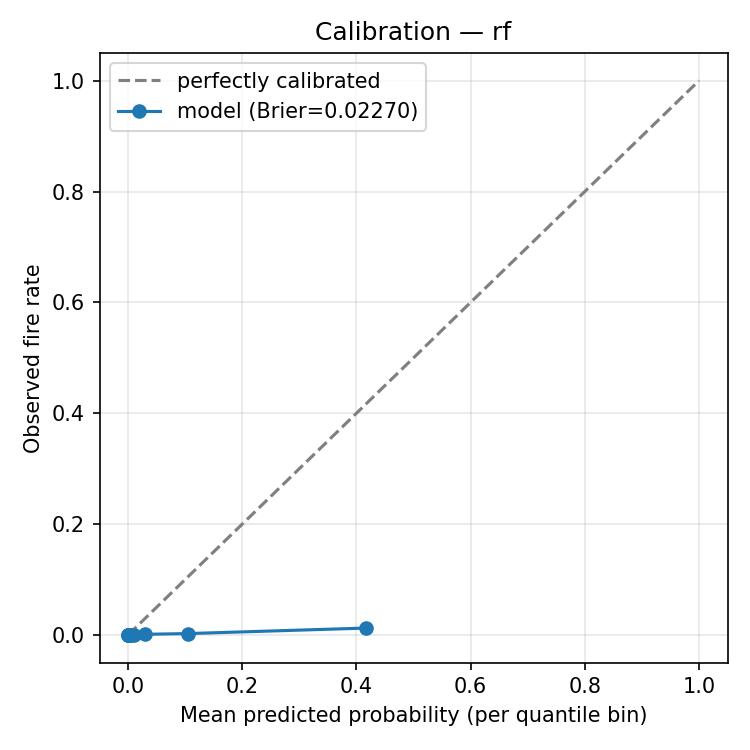
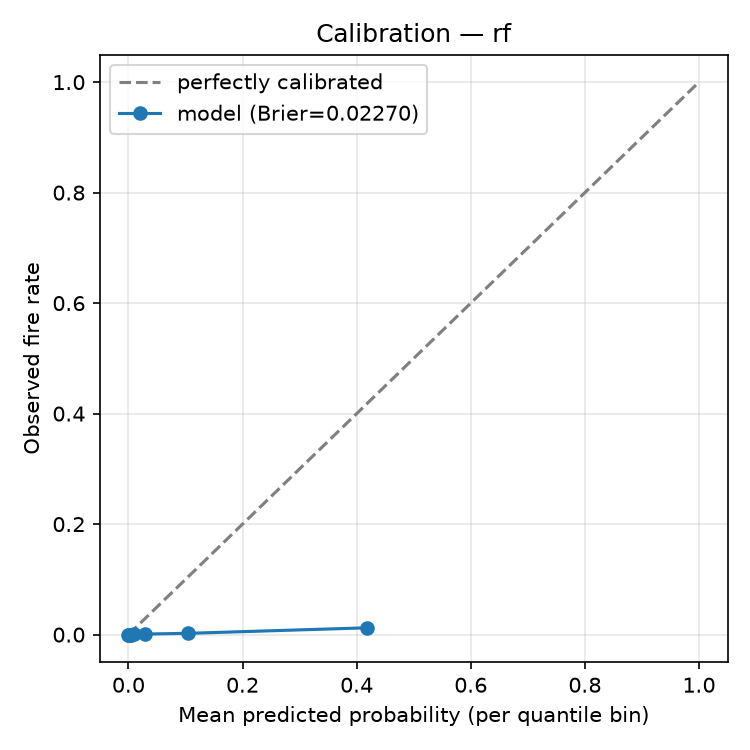
Extend operational evaluation to CatBoost, RF, and SVM
Full 5-model top-k recall/lift, calibration, and SHAP comparison in
docs/results.md. RF's SHAP step (300 trees, depth 20) was too slow
single-threaded locally; ran it on PACE-ICE with --shap-jobs 16 (31min vs.
a projected ~7.6h serial), then pulled the results back. Notes RF's
overconfident probabilities (class_weight="balanced" artifact, not a
calibration win despite the low Brier score) and that the linear SVM's
coefficient-based importance leans on weather while every tree model
leans on land cover.

diff --git a/docs/results.md b/docs/results.md
@@ -153,73 +153,100 @@ positives above the vast negative class, but the operational question is
 "if we can only act on the riskiest N% of grid-cell-days, how many fires
 does that actually catch?"
 
+All five models were run through the same evaluation (`src/evaluate_model.py
+--model {weighted,smote,catboost,rf,svm}`, default 20,000-row SHAP sample,
+same 2023 held-out test set). The RF run used `--shap-jobs 16` on PACE-ICE
+(GT's HPC cluster) — `shap.TreeExplainer` on a 300-tree, depth-20 forest was
+too slow single-threaded locally (a 20,000-row serial run was projected at
+~7.6h; splitting rows across 16 processes finished the real run in 31
+minutes). Everything else ran locally.
+
 ### Top-k recall / lift
 
-| Top-k% flagged | Weighted — recall | Weighted — lift | SMOTE — recall | SMOTE — lift |
-|---|---|---|---|---|
-| 0.1% | 12.9% | 129x | 11.0% | 110x |
-| 0.5% | 27.1% | 54x | 18.2% | 36x |
-| 1.0% | 34.9% | 35x | 23.7% | 24x |
-| 2.0% | 44.2% | 22x | 33.0% | 17x |
-| 5.0% | 59.9% | 12x | 49.8% | 10x |
-| 10.0% | 75.1% | 7.5x | 66.9% | 6.7x |
+| Top-k% flagged | Weighted | SMOTE | CatBoost | RF | SVM |
+|---|---|---|---|---|---|
+| 0.1% | 12.9% (129x) | 11.0% (110x) | 13.7% (137x) | 11.6% (116x) | 0.5% (5x) |
+| 0.5% | 27.1% (54x) | 18.2% (36x) | 27.6% (55x) | 23.3% (47x) | 4.8% (10x) |
+| 1.0% | 34.9% (35x) | 23.7% (24x) | 35.2% (35x) | 30.7% (31x) | 10.1% (10x) |
+| 2.0% | 44.2% (22x) | 33.0% (17x) | 44.7% (22x) | 41.2% (21x) | 25.4% (13x) |
+| 5.0% | 59.9% (12x) | 49.8% (10x) | 60.9% (12x) | 59.5% (12x) | 45.6% (9x) |
+| 10.0% | 75.1% (7.5x) | 66.9% (6.7x) | 75.1% (7.5x) | 74.9% (7.5x) | 60.3% (6.0x) |
 
-Flagging just the riskiest 10% of grid-cell-days catches **75%** of all
-fires with the weighted model (7.5x the base fire rate) — a far more
-useful number for an early-warning use case than the 23%/16% recall seen
-in the classification reports at the F1-optimal threshold. The **weighted
-model beats SMOTE at every single top-k level** — SMOTE's synthetic
-minority oversampling doesn't help the ranking here, it just shifts where
-the probability mass sits (see calibration below).
-Figures: `reports/figures/topk_lift_weighted.png`,
-`reports/figures/topk_lift_smote.png`.
+Figures are the recall/lift values; parenthesized lift as before.
+
+Flagging just the riskiest 10% of grid-cell-days catches **~75%** of all
+fires with any of the three best models (weighted XGBoost, CatBoost, RF) —
+a far more useful number for an early-warning use case than the 20-30%
+recall seen in the classification reports at the F1-optimal threshold.
+**CatBoost and weighted XGBoost are essentially tied and both lead RF and
+SMOTE at every top-k level**; the linear SVM is a clear laggard throughout,
+consistent with it also having the weakest ROC-AUC/PR-AUC of the five.
+Figures: `reports/figures/topk_lift_{weighted,smote,catboost,rf,svm}.png`.
 
 ### Calibration
 
 | Model | Brier score |
 |---|---|
-| Weighted | 0.0696 |
 | SMOTE | 0.0264 |
+| RF | 0.0227 |
+| Weighted | 0.0696 |
+| CatBoost | 0.0855 |
+| SVM | 0.1664 |
 
-SMOTE's lower Brier score is misleading on its own — Brier score rewards
-predicting probabilities close to the (tiny) true base rate everywhere,
-which a model that's worse at *ranking* can still do if its probabilities
-are more conservative on average. Given SMOTE loses on every top-k
-recall/lift number above, the weighted model is the better choice for this
-use case despite its higher Brier score; calibration would matter more if
-the predicted probabilities were used directly (e.g. for cost-weighted
-decisions) rather than for ranking/thresholding.
-Figures: `reports/figures/calibration_weighted.png`,
-`reports/figures/calibration_smote.png`.
+Brier score alone is misleading here and shouldn't be read as a ranking of
+model quality — it rewards predicting probabilities close to the (tiny,
+~0.16%) true base rate everywhere, which a model that's *worse* at ranking
+can still do well if its probabilities are more conservative on average.
+RF's low Brier score in particular is deceptive: its probabilities are
+badly overconfident given the base rate (a constant base-rate prediction
+would itself score ~0.00164 Brier, so 0.0227 reflects systematic
+overestimation, not good calibration), likely an artifact of
+`class_weight="balanced"` reweighting the loss without recalibrating the
+output. SVM's score is similarly not a true probability — it's a sigmoid of
+`decision_function`, used only to make calibration/Brier computable at all,
+since `LinearSVC` has no native `predict_proba`. Given CatBoost/weighted
+XGBoost/RF all win on top-k recall/lift above, those are the better choices
+for this use case despite not having the lowest Brier scores; calibration
+would matter more if the predicted probabilities were used directly (e.g.
+cost-weighted decisions) rather than for ranking/thresholding.
+Figures: `reports/figures/calibration_{weighted,smote,catboost,rf,svm}.png`.
 
 ### SHAP feature importance
 
-Both models agree on the top drivers, dominated by land-cover composition,
-not weather:
+The three tree models (weighted XGBoost, CatBoost, RF) agree closely on the
+top drivers, dominated by land-cover composition, not weather:
 
-| Rank | Weighted | SMOTE |
-|---|---|---|
-| 1 | `pct_21` (developed, open space) | `pct_21` (developed, open space) |
-| 2 | `PS` (surface pressure) | `PS` |
-| 3 | `ndvi_7d_mean` | `pct_22` (developed, low intensity) |
-| 4 | `pct_22` | `PRECTOTCORR` |
-| 5 | `pct_52` (shrub/scrub) | `pct_23` (developed, medium intensity) |
+| Rank | Weighted | SMOTE | CatBoost | RF |
+|---|---|---|---|---|
+| 1 | `pct_21` (developed, open space) | `pct_21` | `pct_21` | `pct_21` |
+| 2 | `PS` (surface pressure) | `PS` | `PS` | `pct_22` (developed, low intensity) |
+| 3 | `ndvi_7d_mean` | `pct_22` | `pct_22` | `pct_23` (developed, medium intensity) |
+| 4 | `pct_22` | `PRECTOTCORR` | `ndvi_7d_mean` | `PS` |
+| 5 | `pct_52` (shrub/scrub) | `pct_23` | `pct_23` | `ndvi_7d_mean` |
 
 `pct_21`/`pct_22`/`pct_23` (developed land at increasing intensity) ranking
-above raw weather variables is consistent with wildfire ignition being
-strongly tied to human activity/wildland-urban interface, not just fuel/fire
-weather — matches the original project's stated WUI hypothesis. Worth
-flagging as a direction to dig into further (e.g. ignition-cause breakdown
-if available) rather than treating as fully explained here.
-Figures: `reports/figures/shap_summary_weighted.png`,
-`reports/figures/shap_summary_smote.png`.
-Full numbers: `reports/metrics/operational_eval_weighted.json`,
-`reports/metrics/operational_eval_smote.json`.
+above raw weather variables, across all three tree models, is consistent
+with wildfire ignition being strongly tied to human activity/wildland-urban
+interface, not just fuel/fire weather — matches the original project's
+stated WUI hypothesis. Worth flagging as a direction to dig into further
+(e.g. ignition-cause breakdown if available) rather than treating as fully
+explained here.
+
+The linear SVM's top features are different in kind, not just order —
+`vpd_proxy`, `T2M`, `RH2M` (weather/fire-weather features) dominate instead
+of land cover. This isn't SHAP for the SVM (LinearSVC has no cheap SHAP
+explainer); it's `|coefficient|` on the standardized, feature-selected
+inputs, so it's not directly comparable in magnitude to the tree models'
+SHAP values, only in rank — but the fact that a linear model leans on
+weather while every tree model leans on land cover suggests the land-cover
+signal is non-linear or threshold-like (e.g. "near this much developed
+land" rather than "more developed land is linearly riskier"), which a
+linear decision boundary can't capture as well.
+Figures: `reports/figures/shap_summary_{weighted,smote,catboost,rf,svm}.png`.
+Full numbers: `reports/metrics/operational_eval_{weighted,smote,catboost,rf,svm}.json`.
 
 ## Still open
 
-- The operational evaluation (top-k recall/lift/calibration/SHAP) above has
-  only been run for the two XGBoost models, not CatBoost/RF/SVM.
 - The grid-generation duplication and NDVI-pipeline duplication questions
   from `docs/inventory.md`'s open questions are unrelated to this run and
   still unresolved.

diff --git a/README.md b/README.md
@@ -15,11 +15,12 @@ proper spatial/temporal validation, and adds operational evaluation (top-k
 recall, lift, calibration, SHAP) on top of the original modeling work.
 
 **Status:** leakage fixes + full 2020–2023 pipeline rewrite done and run
-end-to-end on real data; see [`docs/results.md`](docs/results.md) for
-metrics. Operational evaluation (top-k recall, lift, calibration, SHAP) and
-a like-for-like PR-AUC comparison against the original numbers are still
-open. See [`docs/inventory.md`](docs/inventory.md) for what was carried
-over from the two source repos and what's been rewritten.
+end-to-end on real data; all five models (XGBoost weighted/SMOTE, CatBoost,
+random forest, linear SVM) trained, operationally evaluated (top-k recall,
+lift, calibration, SHAP), and compared against the original project's
+PR-AUC. See [`docs/results.md`](docs/results.md) for metrics and
+[`docs/inventory.md`](docs/inventory.md) for what was carried over from the
+two source repos and what's been rewritten.
 
 ## Credit
 
@@ -31,5 +32,5 @@ over from the two source repos and what's been rewritten.
 - Modeling (XGBoost, random forest, CatBoost, SVM, MLP/CNN): joint work, see
   `docs/inventory.md` for per-script authorship.
 
-See [`docs/results.md`](docs/results.md) for the current results table.
-Reproduction steps and figures to come; operational evaluation is still open.
+See [`docs/results.md`](docs/results.md) for the full results table and
+operational evaluation. Reproduction steps to come.
